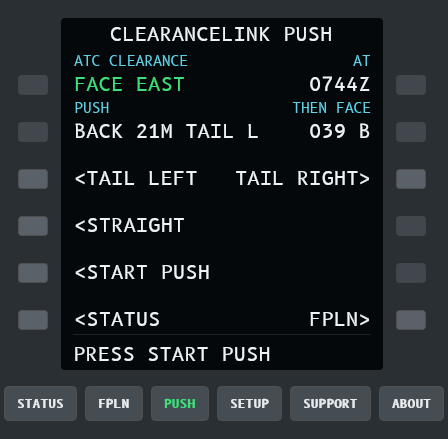
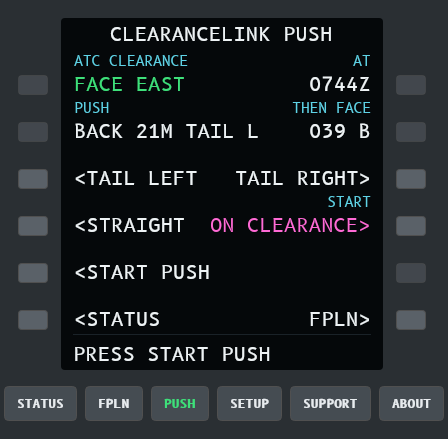
Call the tug on BeyondATC's approval, with a switch to wait for a key
As BeyondATC does with GSX in MSFS, its pushback approval now calls
Better Pushback's tug straight away (once Better Pushback is found);
the push only moves when the pilot releases the parking brake. The PUSH
page's START row switches between ON CLEARANCE (default) and BY KEY,
saved as pushAutomatic in settings.json.

Claude-Session: https://claude.ai/code/session_0186RNd1PqxQixe5vkjEcNCB

Changed region(s): [[0.4688, 0.4442, 0.8438, 0.533], [0.875, 0.4738, 0.9688, 0.533]]

diff --git a/src/ClearanceLink.Host/Pushback/Pushbacks.cs b/src/ClearanceLink.Host/Pushback/Pushbacks.cs
@@ -14,7 +14,8 @@ public sealed record PushView(
     bool BrakeSet = false,
     double Pushed = 0,
     bool XPlane = false,
-    bool? BetterPushback = null)
+    bool? BetterPushback = null,
+    bool Automatic = false)
 {
     /// <summary>What START PUSH would do: the pilot's choice, else BATC's clearance.</summary>
     public PushChoice? Selected => Choice ?? (Clearance is null ? null : PushChoice.Face);
@@ -66,6 +67,7 @@ public sealed class Pushbacks(
     private bool _startRequested;
     private DateTimeOffset _lastLogPoll = DateTimeOffset.MinValue;
     private TimeSpan? _positionSince;
+    private bool _autoPending;
 
     public PushView View
     {
@@ -74,6 +76,29 @@ public sealed class Pushbacks(
             lock (_gate)
             {
                 return _view;
+            }
+        }
+    }
+
+    /// <summary>
+    /// Start as soon as BeyondATC's approval arrives (the way BeyondATC drives GSX in MSFS), when Better Pushback is
+    /// there and no push is running. Off: wait for START PUSH.
+    /// </summary>
+    public bool Automatic
+    {
+        get
+        {
+            lock (_gate)
+            {
+                return _view.Automatic;
+            }
+        }
+
+        set
+        {
+            lock (_gate)
+            {
+                _view = _view with { Automatic = value };
             }
         }
     }
@@ -182,6 +207,19 @@ public sealed class Pushbacks(
             }
 
             _view = _view with { XPlane = xplane.IsConnected, BrakeSet = inputs?.ParkingBrake >= 0.9, BetterPushback = found };
+
+            // ON CLEARANCE: BeyondATC's approval calls the tug, as it calls GSX in MSFS, once Better Pushback is known
+            // to be there. Without it the page says BETTER PUSHBACK MISSING and nothing is sent.
+            if (_autoPending && (!_view.Automatic || _view.Clearance is null || _view.Running || found is false))
+            {
+                _autoPending = false;
+            }
+            else if (_autoPending && found is true && inputs is not null)
+            {
+                _autoPending = false;
+                _startRequested = true;
+                log("pushback: automatic start on BATC's clearance");
+            }
         }
 
         if (inputs is not { } x)
@@ -331,6 +369,7 @@ public sealed class Pushbacks(
                 var clearance = found[^1];
                 log($"pushback: BATC cleared pushback{(clearance.FaceWord is { } w ? $", face {w}" : "")}: {clearance.Text}");
                 _view = _view with { Clearance = clearance, Choice = null, Stage = _view.Stage is PushStage.Done or PushStage.Failed ? null : _view.Stage };
+                _autoPending = _view.Automatic;
             }
             else if (_view.Clearance is { } old && now - old.At > ClearanceKept && !_view.Running)
             {

diff --git a/tests/ClearanceLink.Host.Tests/PushbackTests.cs b/tests/ClearanceLink.Host.Tests/PushbackTests.cs
@@ -379,4 +379,67 @@ public sealed class PushbackTests
         await cts.CancelAsync();
         await run;
     }
+
+    [Theory]
+    [InlineData(true)]
+    [InlineData(false)]
+    public async Task On_clearance_calls_the_tug_when_batc_approves(bool automatic)
+    {
+        var path = Path.Combine(Path.GetTempPath(), $"clearancelink-player-{Guid.NewGuid():N}.log");
+        File.WriteAllText(path, "[Comms] start\n");
+        var xplane = new InMemoryXPlane
+        {
+            ["sim/flightmodel/position/latitude"] = Stand.Latitude,
+            ["sim/flightmodel/position/longitude"] = Stand.Longitude,
+            ["sim/flightmodel/position/psi"] = Stand.Heading,
+            ["sim/flightmodel/position/groundspeed"] = 0,
+            ["sim/cockpit2/controls/parking_brake_ratio"] = 1,
+            ["bp/started"] = 0,
+        };
+        var pushbacks = new Pushbacks(xplane, () => [], _ => null, new BatcLogFollower(path), _ => { }) { Automatic = automatic };
+        using var cts = new CancellationTokenSource();
+        var run = pushbacks.RunAsync(cts.Token);
+        try
+        {
+            for (var i = 0; i < 30 && pushbacks.View.BetterPushback is null; i++)
+            {
+                await Task.Delay(100);
+            }
+
+            await Task.Delay(1200); // the follower has had its first look
+            File.AppendAllText(path, "[Instruction] N123AB, Brisbane Ground, pushback and engine start approved. Face southwest.\n");
+            for (var i = 0; i < 40 && xplane.Commands.IsEmpty && pushbacks.View.Clearance is null; i++)
+            {
+                await Task.Delay(100);
+            }
+
+            await Task.Delay(800);
+            Assert.Equal(225.0, pushbacks.View.Clearance?.FaceBearing);
+            if (automatic)
+            {
+                Assert.Contains(PushDriver.StartCommand, xplane.Commands);
+                Assert.True(pushbacks.View.Running);
+            }
+            else
+            {
+                Assert.Empty(xplane.Commands);
+                Assert.Equal("PRESS START PUSH", CduPages.PushLine(pushbacks.View).Text);
+            }
+        }
+        finally
+        {
+            await cts.CancelAsync();
+            await run;
+            File.Delete(path);
+        }
+    }
+
+    [Fact]
+    public void Push_page_switches_between_on_clearance_and_by_key()
+    {
+        var on = CduPages.Build(PanelPage.Push, Flying with { Push = new PushView(XPlane: true, Automatic: true) }).Rows[3];
+        Assert.Equal(("START", "ON CLEARANCE>", CduKey.PushAutomatic), (on.LabelRight, on.Right.Text, on.KeyRight));
+        var off = CduPages.Build(PanelPage.Push, Flying with { Push = new PushView(XPlane: true) }).Rows[3];
+        Assert.Equal("BY KEY>", off.Right.Text);
+    }
 }

diff --git a/src/ClearanceLink.Host/Panel/CduPage.cs b/src/ClearanceLink.Host/Panel/CduPage.cs
@@ -72,6 +72,7 @@ public enum CduKey
     PushStraight,
     PushStart,
     PushStop,
+    PushAutomatic,
 }
 
 public sealed record CduCell(string Text, CduColor Color = CduColor.White);
@@ -305,7 +306,8 @@ public static class CduPages
             Row("ATC CLEARANCE", "AT", cleared, new(v.Clearance is { } at ? Zulu(at.At) : "")),
             Row("PUSH", "THEN FACE", plan, new(v.Preview is { Turns: true } f ? $"{f.FinalHeading:000}" + (f.Taxiway is { } t ? $" {t}" : "") : "")),
             Row("", "", Choice("<TAIL LEFT", PushChoice.TailLeft), Choice("TAIL RIGHT>", PushChoice.TailRight), CduKey.PushTailLeft, CduKey.PushTailRight),
-            Row("", "", Choice("<STRAIGHT", PushChoice.Straight), new(""), CduKey.PushStraight),
+            Row("", "START", Choice("<STRAIGHT", PushChoice.Straight),
+                v.Automatic ? new("ON CLEARANCE>", CduColor.Magenta) : new("BY KEY>", CduColor.Magenta), CduKey.PushStraight, CduKey.PushAutomatic),
             v.Running
                 ? Row("", "", new(""), new("STOP>", CduColor.Amber), CduKey.None, CduKey.PushStop)
                 : Row("", "", new(v.CanStart ? "<START PUSH" : ""), new(""), v.CanStart ? CduKey.PushStart : CduKey.None),
@@ -332,6 +334,7 @@ public static class CduPages
         { XPlane: false } => new("START X-PLANE 12"),
         { BetterPushback: false } => new("BETTER PUSHBACK MISSING", CduColor.Amber),
         { Selected: null } => new("WAIT FOR PUSH CLEARANCE"),
+        { Automatic: true, Clearance: not null, Choice: null, BetterPushback: null } => new("CHECKING BETTER PUSHBACK"),
         _ => new("PRESS START PUSH"),
     };
 

diff --git a/src/ClearanceLink.Host/Panel/PanelController.cs b/src/ClearanceLink.Host/Panel/PanelController.cs
@@ -187,6 +187,8 @@ public sealed class PanelController : IAsyncDisposable
                 return _board?.Pushbacks?.Start() ?? "STARTING...";
             case CduKey.PushStop:
                 return _board?.Pushbacks?.Stop() ?? "STARTING...";
+            case CduKey.PushAutomatic:
+                return SetPushAutomatic();
             case CduKey.ConnectionAutomatic:
             case CduKey.ConnectionAlwaysOn:
                 return await SetConnectionAsync(key == CduKey.ConnectionAutomatic ? ConnectionMode.Automatic : ConnectionMode.AlwaysOn).ConfigureAwait(false);
@@ -310,6 +312,22 @@ public sealed class PanelController : IAsyncDisposable
             PacketConsole.Info($"panel: could not start BeyondATC: {ex.Message}");
             return "COULD NOT START BATC";
         }
+    }
+
+    /// <summary>AUTOMATIC / BY KEY on the PUSH page: saved, and used from the next clearance on.</summary>
+    private string? SetPushAutomatic()
+    {
+        if (_board?.Pushbacks is not { } pushbacks)
+        {
+            return "STARTING...";
+        }
+
+        var settings = AppSettings.Load(AppFolders.Default.Settings);
+        settings.PushAutomatic = !pushbacks.Automatic;
+        settings.Save(AppFolders.Default.Settings);
+        pushbacks.Automatic = settings.PushAutomatic;
+        PacketConsole.Info($"panel: pushback start {(settings.PushAutomatic ? "automatic" : "by key")}");
+        return null;
     }
 
     /// <summary>Saves that the getting-started pages are done; restarts the server when a folder was chosen meanwhile.</summary>

diff --git a/tests/ClearanceLink.Host.Tests/PanelTests.cs b/tests/ClearanceLink.Host.Tests/PanelTests.cs
@@ -380,7 +380,7 @@ public sealed class PanelTests
             TrafficAddOn = PluginInstall.State.Installed, TrafficAircraft = 23, CslPackages = 13, FsltlFolder = @"C:\MSFS\Community\fsltl-traffic-base", FsltlLiveries = 3154,
             FlightPlan = new FlightPlanView(plan, sent.AddMinutes(-2), SavedAs: plan.FileName, SentAt: sent),
         };
-        var cleared = new PushView(new PushClearance(sent.AddMinutes(4), 90, "EAST", "pushback approved. Face east."), Preview: new PushPlan(21, 90, 39, "B"), XPlane: true, BetterPushback: true);
+        var cleared = new PushView(new PushClearance(sent.AddMinutes(4), 90, "EAST", "pushback approved. Face east."), Preview: new PushPlan(21, 90, 39, "B"), XPlane: true, BetterPushback: true, Automatic: true);
         window.Close();
         window = new PanelWindow(() => flying);
         // The PUSH page with BeyondATC's clearance; the other pages without, so STATUS shows READY FOR CLEARANCE.

diff --git a/src/ClearanceLink.Host/Program.cs b/src/ClearanceLink.Host/Program.cs
@@ -678,7 +678,10 @@ namespace ClearanceLink.Host
                 () => server.Sessions.SelectMany(s => s.Stats.Airports).OrderByDescending(a => a.At).Select(a => a.Icao).Distinct(StringComparer.OrdinalIgnoreCase).ToList(),
                 icao => xplaneAirports?.Airport(icao),
                 options.Has("no-batc-log") ? null : new BatcLogFollower(options.Get("batc-log") ?? BatcClearance.DefaultLog),
-                PacketConsole.Info);
+                PacketConsole.Info)
+            {
+                Automatic = AppSettings.Load(AppFolders.Default.Settings).PushAutomatic,
+            };
             var pushTask = pushbacks.RunAsync(ct);
             board.Pushbacks = pushbacks;
             onBoard?.Invoke(board);

diff --git a/src/ClearanceLink.Host/Support/AppSettings.cs b/src/ClearanceLink.Host/Support/AppSettings.cs
@@ -41,6 +41,12 @@ public sealed class AppSettings
     /// <summary>Ask GitHub at start-up whether a newer release exists (only looks; nothing is downloaded).</summary>
     public bool CheckForUpdates { get; set; } = true;
 
+    /// <summary>
+    /// Call Better Pushback's tug as soon as BeyondATC approves the pushback, as BeyondATC does with GSX in MSFS
+    /// (ADR-0013). Off: the PUSH page waits for START PUSH.
+    /// </summary>
+    public bool PushAutomatic { get; set; } = true;
+
     /// <summary>SimBrief pilot ID (or username) when the user set one; null to use BeyondATC's.</summary>
     public string? SimbriefId { get; set; }
 

diff --git a/docs/STATUS.md b/docs/STATUS.md
@@ -17,7 +17,7 @@ _Update this file in every PR that changes behaviour._
 - Licence: GPLv3 (Ben, 2026-10-04; was MIT) with a section 7 permission to link with X-Plane, its SDK and XPLM (`LICENSE-EXCEPTION.txt`, Ben 2026-10-04). Everything bundled is under GPLv3-compatible licences (MIT, BSD, OFL font). The zip ships `LICENSE.txt`, `LICENSE-EXCEPTION.txt`, `THIRD-PARTY-NOTICES.txt` (each bundled package, ANGLE, the B612 font, XPMP2 and the X-Plane SDK), `licenses/` (the .NET, Skia/HarfBuzz and CommunityToolkit notices, copied by `publish.ps1` from the package versions used) and the plugin folder's `XPMP2-LICENSE.txt` and `XPLM-SDK-LICENSE.txt`; the release workflow fails if any is missing, and a test fails if a NuGet package in ClearanceLink.exe is not named in the notices.
 - Review fixes (2026-10-04, app review after 0.5.0): STATUS shows NO MODELS (amber, key opens the aircraft models page) while the plugin runs without a CSL package, ClearanceLink stops sending aircraft to it until it reports models, and plugin 0.5.1 refuses such adds once per aircraft instead of failing every 10 s; its flight loop catches exceptions so none reach X-Plane. CONVERT on the models page keeps its result on the bottom line (`N LIVERIES CONVERTED`, or `CONVERT FAILED: SEE LIVE LOG` for any failure, not only I/O), logs the first 25 problems, and restarts the server so the new catalogue is used (or says RESTART TO USE MODELS while BeyondATC is connected); a livery whose texture does not convert is left out of the package instead of listed with a missing file. A COM write that times out on X-Plane's Web API (5 s, scenery loading) no longer drops BeyondATC's connection; the X-Plane client reconnects after any failure, not only the expected ones; a session's periodic data survives a bad tick and its AI objects are removed however it ends; an airport whose files cannot be read gets the "no such airport" exception instead of no answer, and a damaged apt.dat row is skipped instead of losing the file. The generated taxi network no longer puts the apron point on a lone parking spot (two points at one position crash BATC). A server that fails to start inside the window is logged.
 - Flight plans (2026-10-05, loaded into the Phenom's FMS on Ben's PC; in 0.6.0, help: docs/help.md#flight-plans): new FPLN page (page key and STATUS FPLN>). REQUEST fetches the latest SimBrief plan (pilot ID from BeyondATC's SimBrief link or `settings simbrief-id`) and shows route, runways, SID/STAR and cruise without touching X-Plane; LOAD, pressed twice, saves it as `<X-Plane>/Output/FMS plans/<ORIG><DEST>.fms` and plugin 0.5.3 loads it into X-Plane's own FMS (`XPLMLoadFMSFlightPlan`); aircraft with their own FMS load the file from their menus. `clearancelink simbrief` saves it from the command line (ADR-0011).
-- Pushback (ADR-0013, 2026-10-05, Better Pushback commands tested by hand on Ben's PC, the page not yet; help: docs/help.md#pushback, research: docs/research/batc-gsx-pushback.md): new PUSH page (F6). ClearanceLink follows BeyondATC's Player.log for its pushback approval and direction ("Face east"; `--batc-log <path>`, `--no-batc-log`) and STATUS says PUSHBACK APPROVED: PUSH in place of READY FOR CLEARANCE. The page plans the push from the aircraft's position and the taxiway behind it in apt.dat (end on the centreline, facing the way closest to the cleared direction; else 15 m and a turn); TAIL LEFT, TAIL RIGHT and STRAIGHT override it. START PUSH drives Better Pushback 1.14's manual push over the Web API (`PushDriver`: tug, release brake, push, turn, centre, pause, stop, then disconnect and acknowledge once the parking brake is set); STOP ends it. Better Pushback is detected by its `bp/started` dataref; without it the page says BETTER PUSHBACK MISSING and sends nothing. BeyondATC's GSX L:var writes are still ignored.
+- Pushback (ADR-0013, 2026-10-05, page tested with START PUSH on Ben's PC, ON CLEARANCE not yet; help: docs/help.md#pushback, research: docs/research/batc-gsx-pushback.md): new PUSH page (F6). ClearanceLink follows BeyondATC's Player.log for its pushback approval and direction ("Face east"; `--batc-log <path>`, `--no-batc-log`) and STATUS says PUSHBACK APPROVED: PUSH in place of READY FOR CLEARANCE. The page plans the push from the aircraft's position and the taxiway behind it in apt.dat (end on the centreline, facing the way closest to the cleared direction; else 15 m and a turn); TAIL LEFT, TAIL RIGHT and STRAIGHT override it. With START ON CLEARANCE (default, `pushAutomatic`) BeyondATC's approval calls the tug as it calls GSX in MSFS; BY KEY waits for START PUSH. Tested on Ben's PC 2026-10-05 with START PUSH (Citation X, Ramp 26, face southwest: 15 m straight back, tug disconnected after the brake was set). START PUSH drives Better Pushback 1.14's manual push over the Web API (`PushDriver`: tug, release brake, push, turn, centre, pause, stop, then disconnect and acknowledge once the parking brake is set); STOP ends it. Better Pushback is detected by its `bp/started` dataref; without it the page says BETTER PUSHBACK MISSING and sends nothing. BeyondATC's GSX L:var writes are still ignored.
 - Traffic titles (2026-10-05): an FSLTL type with a dash variant is read as its type (FSLTL_GA_DA40-NG is a DA40, was drawn as an A320), and an unrecognised FSLTL_GA_ title falls back to `default_ga_type` (C172) in `mapping/traffic-models.yaml`, not the airliner default.
 - Plugin ports (2026-10-05): no traffic was drawn on Ben's PC because Windows had reserved UDP 49650-49749 (Hyper-V/WinNAT). Plugin 0.5.3 listens on the first free of 34710, 38710, 42710, 46710, 49710 and answers whichever port wrote; ClearanceLink listens on any free port. 0.5.3 and older ClearanceLink versions do not talk to each other (SETUP offers the update).
 - Review follow-ups (2026-10-05, not yet run on Ben's PC): FSLTL conversion records the FSLTL version, converter version and texture size in `fsltl-manifest.json`; page 4 says UPDATE NEEDED and STATUS's bottom line takes turns with FSLTL MODELS OUT OF DATE when FSLTL changed (`fsltl status` says so too); STATUS's traffic row and SETUP then have an UPDATE> key to that page. SETUP says CLOSE MSFS BEFORE FLYING only while MSFS runs. The MSFS stand-in now runs only while BeyondATC connects (closed 5 s after both its connections are open, started again when either drops), so X-Plane add-ons such as FlightSimBuilder HUB can connect (ADR-0010). Page 4 shows progress (MODELS n/N, TEXTURES n/N, SAVING...); closing the window mid-conversion asks for a second close within 10 s, then stops it and leaves the previous package whole (objects, xsb, catalogue and manifest are written through .tmp files, last). Unused textures and .tmp files are removed after a full import; at most 6 texture workers, and only the mip levels needed are read; a texture converted at another size is converted again. The FSLTL picker accepts the Community folder or any folder inside the package. Folder lookups (registry, plugin check, CSL counts) run in the background, not on the window's thread; CLOSE X-PLANE TO CONVERT shows only while X-Plane runs; NEEDS MSFS when MSFS is not on the PC. A read-only BeyondATC or X-Plane folder gives RUN AS ADMINISTRATOR instead of CLOSE X-PLANE FIRST or a crash. Plugin 0.5.2: moving aircraft probe the terrain at most every 0.1 s (8 m at most between probes) with the height carried along the measured slope; model wheels are read on one background thread, cancelled on disable; TCAS is released when ClearanceLink stops; unknown light bits are ignored; numbers are parsed with from_chars. Server: a silent WebSocket (no update for 10 s and no REST answer) reconnects, with WebSocket keep-alive; a failed accept retries instead of stopping that connection type; an unreadable settings.json gives the defaults; every two taxi points stay at least 1 m apart; unconvertible units and periodic AI requests are logged once; the apt.dat index is cached in `%LOCALAPPDATA%\ClearanceLink\apt-index.json`; recordings are capped at 2 GB.

diff --git a/docs/decisions/ADR-0013-pushback-with-better-pushback.md b/docs/decisions/ADR-0013-pushback-with-better-pushback.md
@@ -13,8 +13,11 @@ its "face east" instruction, could drive it. Research and test results: `docs/re
 - **The clearance comes from BeyondATC's log.** BeyondATC writes each instruction to its `Player.log` as plain text
   (`[Instruction] ..., pushback and engine start approved. Face east.`). ClearanceLink follows the log (new lines only)
   and shows the approval and direction on a new PUSH page. BeyondATC's GSX L:var writes stay ignored.
-- **The pilot starts the push.** START PUSH on the PUSH page; TAIL LEFT, TAIL RIGHT and STRAIGHT override the
-  clearance. STATUS says PUSHBACK APPROVED: PUSH in place of READY FOR CLEARANCE.
+- **The approval calls the tug, as with GSX, and the pilot can switch that off.** In MSFS BeyondATC requests GSX's
+  pushback itself at the approval; the pilot only releases the parking brake. START on the PUSH page is ON CLEARANCE
+  by default (Ben chose this on 2026-10-05 after first trying a key-only version) or BY KEY, saved as
+  `pushAutomatic` in settings.json. BY KEY waits for START PUSH, and TAIL LEFT, TAIL RIGHT and STRAIGHT override the
+  clearance; STATUS says PUSHBACK APPROVED: PUSH meanwhile. Either way the tug only pushes once the brake is off.
 - **Better Pushback's manual push, closed loop, over the Web API.** `BetterPushback/manual_push_start_no_yoke` starts
   (and pauses) the push, `manual_push_left/right` steer in 10% steps, `stop` ends it, and once the pilot sets the
   parking brake `disconnect` and `acknowledge_clear` send the tug away. ClearanceLink watches position, heading and
@@ -33,7 +36,8 @@ its "face east" instruction, could drive it. Research and test results: `docs/re
 
 ## Consequences
 - Tested by hand on Ben's PC (Citation X at YBBN, commands sent over the Web API): straight push, a 90 degree turn
-  with the tail right, pause and stop. The page as a whole is not yet run there.
+  with the tail right, pause and stop. The PUSH page with START PUSH pushed the Citation X back 15 m to face
+  southwest and disconnected the tug (2026-10-05); ON CLEARANCE is not yet run there.
 - Better Pushback can't move some aircraft at all (the Aerobask Phenom 300, even with its own planned push); the page
   says NOT MOVING: SEE HELP after 40 s with the brake off.
 - Depends on the wording of BeyondATC's log lines; a change there stops the clearance showing, and the TAIL keys

diff --git a/docs/help.md b/docs/help.md
@@ -100,18 +100,21 @@ name to load.
 ## Pushback
 In MSFS, BeyondATC can call GSX for your pushback. X-Plane has no GSX, so the **PUSH** page does it with the free
 [Better Pushback](https://github.com/olivierbutler/BetterPusbackMod) plugin (version 1.14 or later) instead. It
-follows BeyondATC's clearance, including "face east". Nothing moves until you press **START PUSH**.
+follows BeyondATC's clearance, including "face east". Like GSX in MSFS, the tug comes as soon as BeyondATC approves
+your pushback; it only moves once you release the parking brake.
 
 <img src="images/panel-push-flying.png" width="330" alt="PUSH page with a clearance to face east">
 
-1. Ask BeyondATC for pushback as usual. When it approves, STATUS says **PUSHBACK APPROVED: PUSH** and the PUSH page
-   shows the clearance (**FACE EAST**) and the push it worked out: how far back, which way the tail goes, and the
-   heading and taxiway you'll end up on.
-2. If you'd rather go another way, press **TAIL LEFT**, **TAIL RIGHT** or **STRAIGHT**. Press it again to go back
-   to what ATC said.
-3. Press **START PUSH**. Better Pushback's tug comes to the aircraft.
-4. When the bottom line says **RELEASE PARKING BRAKE**, release it. The tug pushes you back, turns and stops.
-5. When it says **SET PARKING BRAKE**, set it. ClearanceLink tells the tug to disconnect for you.
+1. Ask BeyondATC for pushback as usual. When it approves, the PUSH page shows the clearance (**FACE EAST**) and the
+   push it worked out: how far back, which way the tail goes, and the heading and taxiway you'll end up on.
+   Better Pushback's tug comes to the aircraft.
+2. When the bottom line says **RELEASE PARKING BRAKE**, release it. The tug pushes you back, turns and stops.
+3. When it says **SET PARKING BRAKE**, set it. ClearanceLink tells the tug to disconnect for you.
+
+**START** says when the tug is called. **ON CLEARANCE** (the default) calls it when BeyondATC approves; press it to
+change to **BY KEY**, and the tug waits until you press **START PUSH**. With BY KEY you can first press **TAIL LEFT**,
+**TAIL RIGHT** or **STRAIGHT** to push another way than ATC said (press it again to go back to ATC's way); STATUS
+says **PUSHBACK APPROVED: PUSH** until you do.
 
 **STOP** ends the push where you are. The tug still disconnects once you set the parking brake.
 
